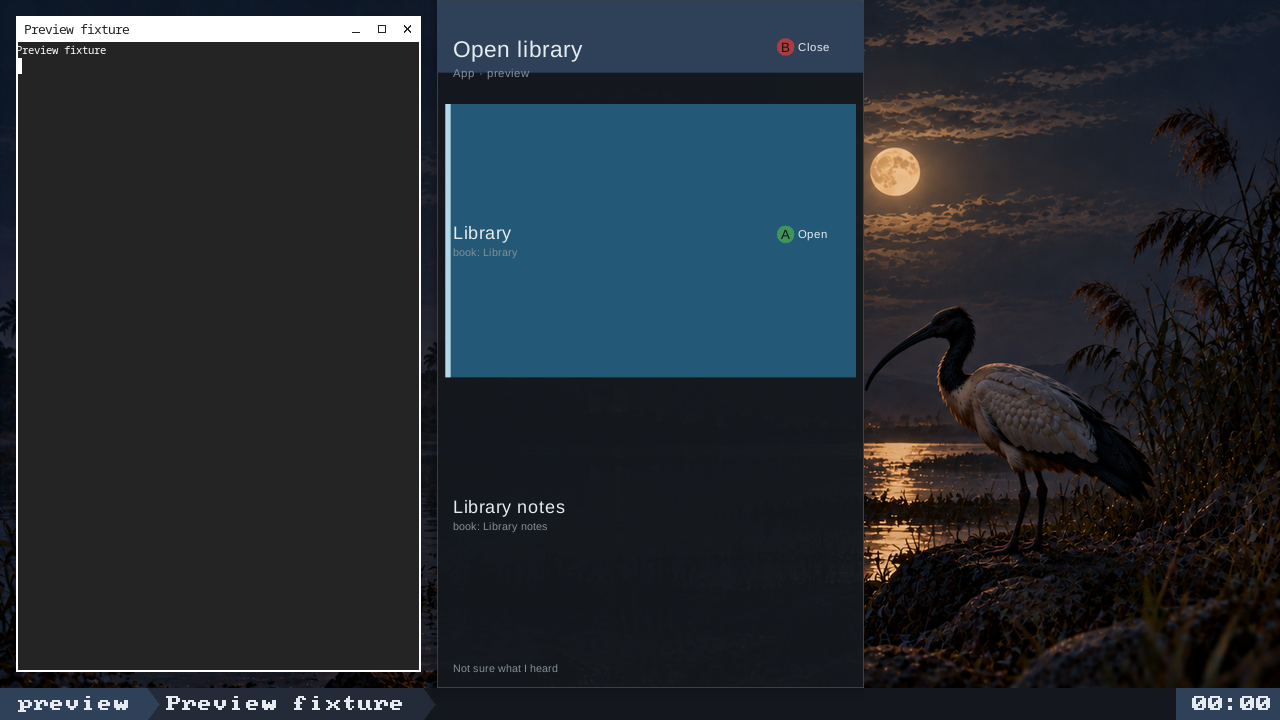
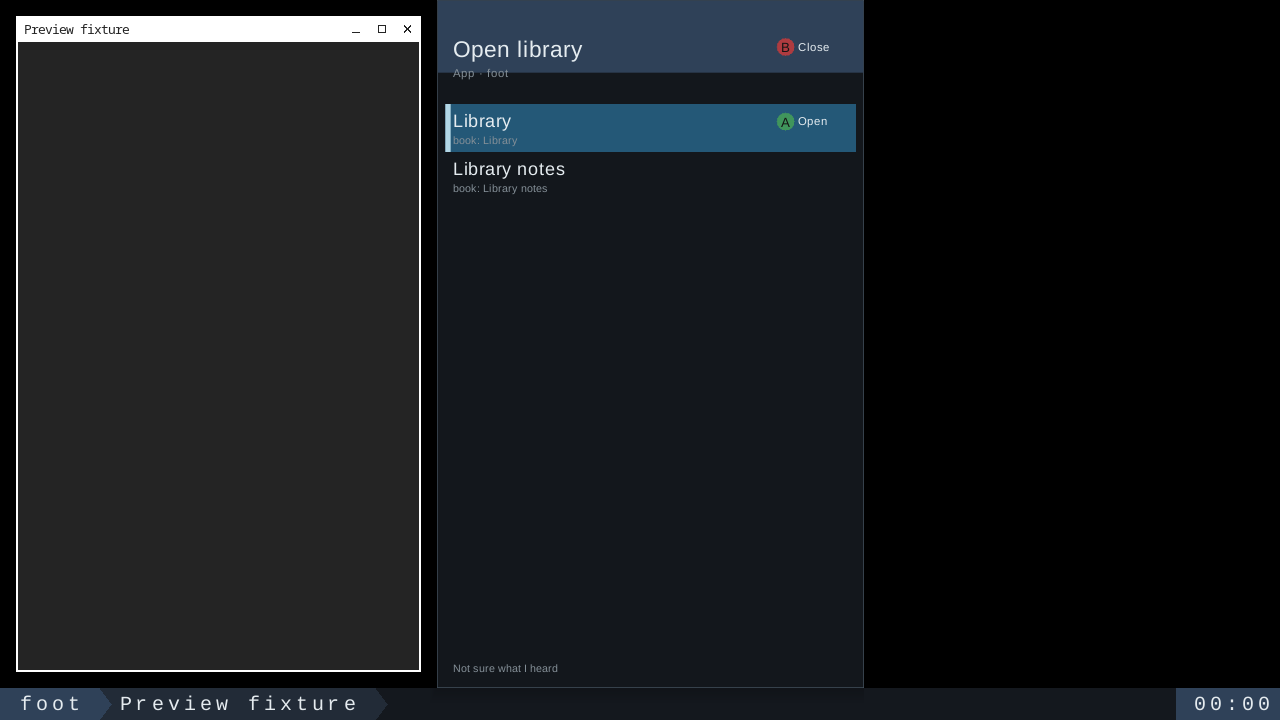
fix: keep launcher rows at their natural height
Claude-Session: https://claude.ai/code/session_01HcbfHSbt9kimi38ErHVb1e
Claude-Session: https://claude.ai/code/session_01BUZjALywsE5FXE4Sh9QPh4

diff --git a/scripts/test_visual_tests.py b/scripts/test_visual_tests.py
@@ -42,11 +42,11 @@ class LauncherLayout(unittest.TestCase):
         self.check = runpy.run_path(str(Path(__file__).with_name("visual-tests")))["launcher_layout"]
         self.scene = {"launcher": {"layout": {
             "glyphs": [{"ink": [9, 9, 19, 19], "circle": [0, 0, 28, 28]}],
-            "rows": [{"y": 150, "height": 400}, {"y": 550, "height": 400}],
-            "panel": {"y": 36, "height": 1000}, "rows_bottom": 950,
+            "rows": [{"y": 150, "height": 72}, {"y": 222, "height": 72}],
+            "panel": {"y": 36, "height": 1000}, "rows_bottom": 294,
         }}}
 
-    def test_filled_rows_and_centred_ink_pass(self):
+    def test_natural_rows_centred_ink_and_empty_space_below_pass(self):
         self.check(self.scene)
 
     def test_displaced_ink_fails(self):
@@ -54,7 +54,7 @@ class LauncherLayout(unittest.TestCase):
         with self.assertRaisesRegex(AssertionError, "off centre"):
             self.check(self.scene)
 
-    def test_unused_height_fails(self):
-        self.scene["launcher"]["layout"]["rows_bottom"] = 400
-        with self.assertRaisesRegex(AssertionError, "unused space"):
+    def test_stretched_rows_fail(self):
+        self.scene["launcher"]["layout"]["rows"] = [{"y": 150, "height": 400}]
+        with self.assertRaisesRegex(AssertionError, "natural height"):
             self.check(self.scene)

diff --git a/crates/compositor/src/choice_list.rs b/crates/compositor/src/choice_list.rs
@@ -207,14 +207,8 @@ fn paint(canvas: &mut Canvas, list: &List, family: PadFamily, bottom: usize) -> 
     paint_create(canvas, list, family, y);
     y = y.saturating_add(create_height);
     let rows = list.candidates().get(list.visible()).unwrap_or_default();
-    let headings = if list.show_headings() { 56 } else { 0 };
     let footer_top = bottom.saturating_sub(FOOTER);
-    let row_height = footer_top
-        .saturating_sub(y)
-        .saturating_sub(headings)
-        .checked_div(rows.len())
-        .unwrap_or_default()
-        .max(72);
+    let row_height = 72;
     let mut section = None;
     for row in rows {
         if list.show_headings() && section != Some(row.close) {
@@ -393,7 +387,6 @@ fn paint_candidate(
     top: usize,
     height: usize,
 ) {
-    // The 72-unit row content sits in the middle of its equal share of the panel.
     let y = top.saturating_add(height.saturating_sub(72) / 2);
     let selected = list.selected() == Some(row.choice);
     if selected {

diff --git a/crates/compositor/tests/choice_list.rs b/crates/compositor/tests/choice_list.rs
@@ -204,7 +204,8 @@ mod tests {
     }
 
     #[test]
-    fn launcher_rows_share_the_full_panel_height_above_the_bar() -> Result<(), Box<dyn core::error::Error>> {
+    fn launcher_rows_keep_their_natural_height_above_empty_panel_space()
+    -> Result<(), Box<dyn core::error::Error>> {
         for rows in 1..=5 {
             let launcher = launcher(rows);
             let pixels = tehuti::choice_list::raster(launcher.list(), PadFamily::Letters, (1920, 1080))
@@ -221,8 +222,8 @@ mod tests {
             let live = [119, 88, 36, 255];
             let selected = (0..1080).filter(|y| pixel(&pixels, 1900, *y) == live).count();
             assert!(
-                selected.saturating_mul(rows) >= bottom.saturating_sub(300),
-                "{rows} rows: selected row is {selected}px, rows do not fill the panel"
+                selected == 72,
+                "{rows} rows: selected row is {selected}px, row must keep its natural height"
             );
         }
         Ok(())

diff --git a/docs/visual-tests.md b/docs/visual-tests.md
@@ -24,11 +24,11 @@ Review the resulting PNG changes before committing. Updating never changes
 pending launcher cases or bypasses scene assertions.
 
 Both launcher goldens are pending #379: appearing at empty start, centring
-glyphs and filling the panel must be fixed before accepting those pixels. Both cases still render and save
+glyphs and placing the panel must be fixed before accepting those pixels. Both cases still render and save
 captures. The window case requires the same focused window to remain mapped.
 Launcher layout assertions consume `tehuti-drive scene --json`: ink centres
-must be within one physical pixel of their circles, rows must have equal heights
-and no gaps, and rows must fill the panel above the bar. These assertions report
+must be within one physical pixel of their circles, rows must keep their natural height
+and stack without gaps above the bar. These assertions report
 pending failures until the cases are enabled. To enable them, remove the two launcher
 names from `PENDING`, run the update command, and review their PNGs. Layout
 assertions must then run before accepting or comparing launcher goldens.
